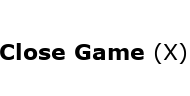
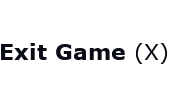
Corrected the restart function and now allow the user to restart the game from the pause menu

Changed region(s): [[0.0, 0.4375, 1.0, 0.6875]]

diff --git a/core/src/com/mygdx/game/MyGdxGame.java b/core/src/com/mygdx/game/MyGdxGame.java
@@ -76,7 +76,7 @@ public class MyGdxGame extends ApplicationAdapter {
 	GameObject pauseButton;
 	boolean muteState = false;
 	Boolean isGameRunning = false;
-  HighScore highScore;
+    HighScore highScore;
 
 	@Override
 	public void create () {
@@ -326,6 +326,22 @@ public class MyGdxGame extends ApplicationAdapter {
 
 	}
 
+
+	public void Restart(){
+
+		//Place chefs in area
+		//Destroy chefs items
+		masterChef.ResetSequence(GameWorld.SpawnPointChef1,GameWorld.SpawnPointChef2);
+		//Remove items from machines
+		GameWorld.Reset();
+		//Reset customers, seen customers, wave number
+		CustomerManager.customermanager.Reset();
+
+		//Go to menu or what ever it is suppose to
+		changeMenuVisbility();
+		isGameRunning = false;
+	}
+
 	@Override
 	public void render () {
 
@@ -393,9 +409,11 @@ public class MyGdxGame extends ApplicationAdapter {
 				}
 				// If the text is clicked or the X key is pressed the game will exit
 				if (Gdx.input.isKeyJustPressed(InputsDefaults.exit) || closeGameText.isObjectTouched() || closeGameIcon.isObjectTouched()){
-					this.dispose();
-					Gdx.app.exit();
-					System.exit(0);
+//					this.dispose();
+//					Gdx.app.exit();
+//					System.exit(0);
+					negatePauseMenu();
+					Restart();
 				}
 				// If the unmute/ mute icon or text is clicked, the music will be muted or unmuted
 				if (!menu.getVisibility() && (Gdx.input.isKeyJustPressed(InputsDefaults.mute) || muteMusicIcon.isObjectTouched() || unmuteMusicIcon.isObjectTouched()
@@ -426,19 +444,6 @@ public class MyGdxGame extends ApplicationAdapter {
 		batch.RenderTextures(camera.combined);
 	}
 
-	public void Restart(){
-
-		//Place chefs in area
-		//Destroy chefs items
-		masterChef.ResetSequence(GameWorld.SpawnPointChef1,GameWorld.SpawnPointChef2);
-		//Remove items from machines
-		GameWorld.Reset();
-		//Reset customers, seen customers, wave number
-		CustomerManager.customermanager.Reset();
-
-		//Go to menu or what ever it is suppose to
-
-	}
 
 
 

diff --git a/core/src/com/mygdx/game/CoreData/Items/FoodCrate.java b/core/src/com/mygdx/game/CoreData/Items/FoodCrate.java
@@ -5,7 +5,7 @@ import com.mygdx.game.BlackCore.InteractInterface;
 import com.mygdx.game.BlackCore.ItemAbs;
 import com.mygdx.game.BlackScripts.ItemFactory;
 
-public class FoodCrate extends BlackScripts implements InteractInterface {
+public class FoodCrate extends BlackScripts implements InteractInterface{
     public Items ingredient;
 
 

diff --git a/core/src/com/mygdx/game/CreateGameWorld.java b/core/src/com/mygdx/game/CreateGameWorld.java
@@ -375,8 +375,9 @@ public class CreateGameWorld
 
         for (GameObject obj: WorkStations
              ) {
-            ((WorkStation)obj.blackScripts.get(0)).Reset();
-
+            if (obj.blackScripts.get(0) instanceof WorkStation){
+                ((WorkStation)obj.blackScripts.get(0)).Reset();
+            }
         }
 
 
